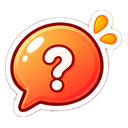
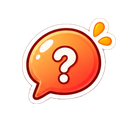
publicar sitio

diff --git a/app/index.html b/app/index.html
@@ -11,11 +11,11 @@
 <title>ATWI</title>
 <meta name="description" content="¡Resuélvelo como adulto, Jugando! Modo ControversIA y modo NegocIAción.">
 
-<link rel="stylesheet" href="../assets/css/fuentes.css?v=bca7487">
-<link rel="stylesheet" href="../assets/css/tokens.css?v=bca7487">
-<link rel="stylesheet" href="../assets/css/base.css?v=bca7487">
-<link rel="stylesheet" href="../assets/css/app.css?v=bca7487">
-<link rel="stylesheet" href="../assets/css/modal.css?v=bca7487">
+<link rel="stylesheet" href="../assets/css/fuentes.css?v=75459e5">
+<link rel="stylesheet" href="../assets/css/tokens.css?v=75459e5">
+<link rel="stylesheet" href="../assets/css/base.css?v=75459e5">
+<link rel="stylesheet" href="../assets/css/app.css?v=75459e5">
+<link rel="stylesheet" href="../assets/css/modal.css?v=75459e5">
 </head>
 
 <body class="app">
@@ -259,18 +259,18 @@
 
 <p class="aviso-escritorio">ATWI está diseñado solo para móvil. Esto es una vista previa dentro de un marco de teléfono.</p>
 
-<script src="../assets/js/config.js?v=bca7487"></script>
-<script src="../assets/js/precarga.js?v=bca7487"></script>
-<script src="../assets/js/iconos.js?v=bca7487"></script>
-<script src="../assets/js/personajes.js?v=bca7487"></script>
-<script src="../assets/js/datos.js?v=bca7487"></script>
-<script src="../assets/js/sonido.js?v=bca7487"></script>
-<script src="../assets/js/veredicto.js?v=bca7487"></script>
-<script src="../assets/js/grabadora.js?v=bca7487"></script>
-<script src="../assets/js/partida.js?v=bca7487"></script>
-<script src="../assets/js/auth.js?v=bca7487"></script>
-<script src="../assets/js/entrada.js?v=bca7487"></script>
-<script src="../assets/js/nube.js?v=bca7487"></script>
-<script src="../assets/js/app.js?v=bca7487"></script>
+<script src="../assets/js/config.js?v=75459e5"></script>
+<script src="../assets/js/precarga.js?v=75459e5"></script>
+<script src="../assets/js/iconos.js?v=75459e5"></script>
+<script src="../assets/js/personajes.js?v=75459e5"></script>
+<script src="../assets/js/datos.js?v=75459e5"></script>
+<script src="../assets/js/sonido.js?v=75459e5"></script>
+<script src="../assets/js/veredicto.js?v=75459e5"></script>
+<script src="../assets/js/grabadora.js?v=75459e5"></script>
+<script src="../assets/js/partida.js?v=75459e5"></script>
+<script src="../assets/js/auth.js?v=75459e5"></script>
+<script src="../assets/js/entrada.js?v=75459e5"></script>
+<script src="../assets/js/nube.js?v=75459e5"></script>
+<script src="../assets/js/app.js?v=75459e5"></script>
 </body>
 </html>

diff --git a/assets/css/app.css b/assets/css/app.css
@@ -405,6 +405,14 @@ body.app {
      mínimo, así que dejaban de estar alineados con el dibujo justo en lo que se
      pedía que coincidiera. El rótulo crece 8 px y todo vuelve a cuadrar. */
   --alto-rotulo: 96px;
+  /* LOS SIGNOS SE DESATARON DEL RÓTULO (petición del titular, 2026-09-16: «un
+     poco más grandes los iconos de ayuda y play»). Iban a la altura del rótulo,
+     y de ahí salían los 44 de cada uno. Dos de 60 más los 8 del hueco.
+
+     No crece el rótulo con ellos porque lo que se pidió más grande es el signo:
+     la carta ya la manda el dibujo del modo, que se lee a metros, y lo que
+     costaba encontrar era dónde tocar. */
+  --alto-signos: 128px;
   display: flex; align-items: center; gap: var(--e-3);
   width: 100%; padding: var(--e-4);
   border: 0; border-radius: var(--radio-modal);
@@ -442,7 +450,7 @@ body.app {
    relleno, no el diámetro. */
 .carta-modo__salidas {
   display: grid; grid-auto-rows: 1fr; gap: var(--e-2);
-  flex: 0 0 auto; height: var(--alto-rotulo); justify-items: center;
+  flex: 0 0 auto; height: var(--alto-signos); justify-items: center;
 }
 /* CADA UNO ES UN CÍRCULO DEL ALTO QUE LE TOCA. `aspect-ratio` sobre la altura
    de la fila: así el diámetro sale del alto del rótulo y no de un número

diff --git a/index.html b/index.html
@@ -15,11 +15,11 @@
 <title>ATWI · El juego de debate para parejas</title>
 <meta name="description" content="De uno a cinco turnos. Ustedes deciden antes de grabar; después habla la máquina.">
 
-<link rel="stylesheet" href="assets/css/fuentes.css?v=bca7487">
-<link rel="stylesheet" href="assets/css/tokens.css?v=bca7487">
-<link rel="stylesheet" href="assets/css/base.css?v=bca7487">
-<link rel="stylesheet" href="assets/css/landing.css?v=bca7487">
-<link rel="stylesheet" href="assets/css/modal.css?v=bca7487">
+<link rel="stylesheet" href="assets/css/fuentes.css?v=75459e5">
+<link rel="stylesheet" href="assets/css/tokens.css?v=75459e5">
+<link rel="stylesheet" href="assets/css/base.css?v=75459e5">
+<link rel="stylesheet" href="assets/css/landing.css?v=75459e5">
+<link rel="stylesheet" href="assets/css/modal.css?v=75459e5">
 </head>
 
 <body class="landing">
@@ -172,6 +172,6 @@
 
 </div>
 
-<script src="assets/js/config.js?v=bca7487"></script>
+<script src="assets/js/config.js?v=75459e5"></script>
 </body>
 </html>

diff --git a/prueba-microfono.html b/prueba-microfono.html
@@ -17,7 +17,7 @@
   localhost, así que desde el teléfono va por https://atwi.app/prueba-microfono.html
   y NO por la IP del servidor local, donde Chrome lo bloquea en silencio.
 -->
-<link rel="stylesheet" href="assets/css/tokens.css?v=bca7487">
+<link rel="stylesheet" href="assets/css/tokens.css?v=75459e5">
 <style>
   * { box-sizing: border-box; }
   body {
@@ -62,7 +62,7 @@
 <button class="suave" id="b-copiar" disabled>Copiar el informe</button>
 <button class="suave" id="b-bajar" disabled>Bajar el audio</button>
 
-<script src="assets/js/grabadora.js?v=bca7487"></script>
+<script src="assets/js/grabadora.js?v=75459e5"></script>
 <script>
 (function () {
   'use strict';

diff --git a/assets/js/config.js b/assets/js/config.js
@@ -64,7 +64,7 @@ window.ATWI.config = {
      sube, y con el mismo sello va el `?v=` de los CSS, los JS y el catálogo.
      Sin esto el navegador del teléfono se queda con los archivos viejos aunque
      el sitio ya esté actualizado, que es justo lo que pasó el 2026-09-12. */
-  version: 'bca7487',
+  version: '75459e5',
 
   /* Proyecto de Supabase (región us-west-2, Oregón: hay que declararla en la
      política de privacidad). La clave anon es PÚBLICA por diseño: viaja al

diff --git a/admin/index.html b/admin/index.html
@@ -194,7 +194,7 @@
   </div>
 </div>
 
-<script src="../assets/js/config.js?v=bca7487"></script>
-<script src="tablero.js?v=bca7487"></script>
+<script src="../assets/js/config.js?v=75459e5"></script>
+<script src="tablero.js?v=75459e5"></script>
 </body>
 </html>
